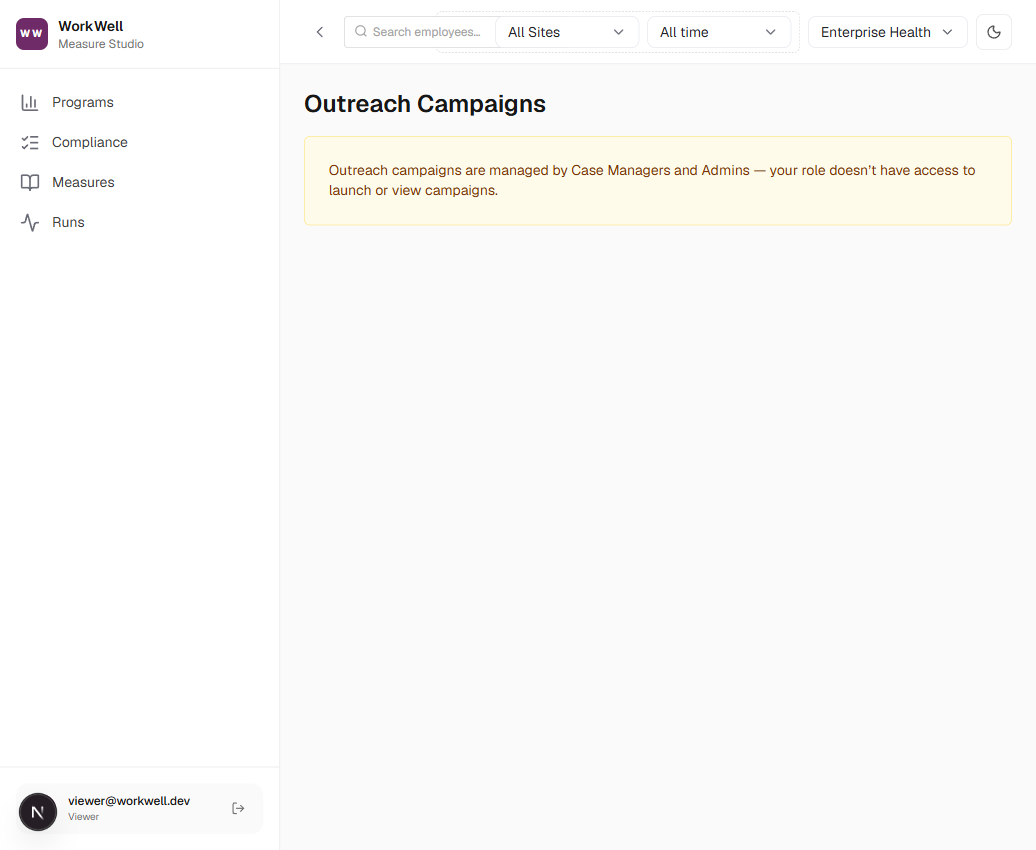
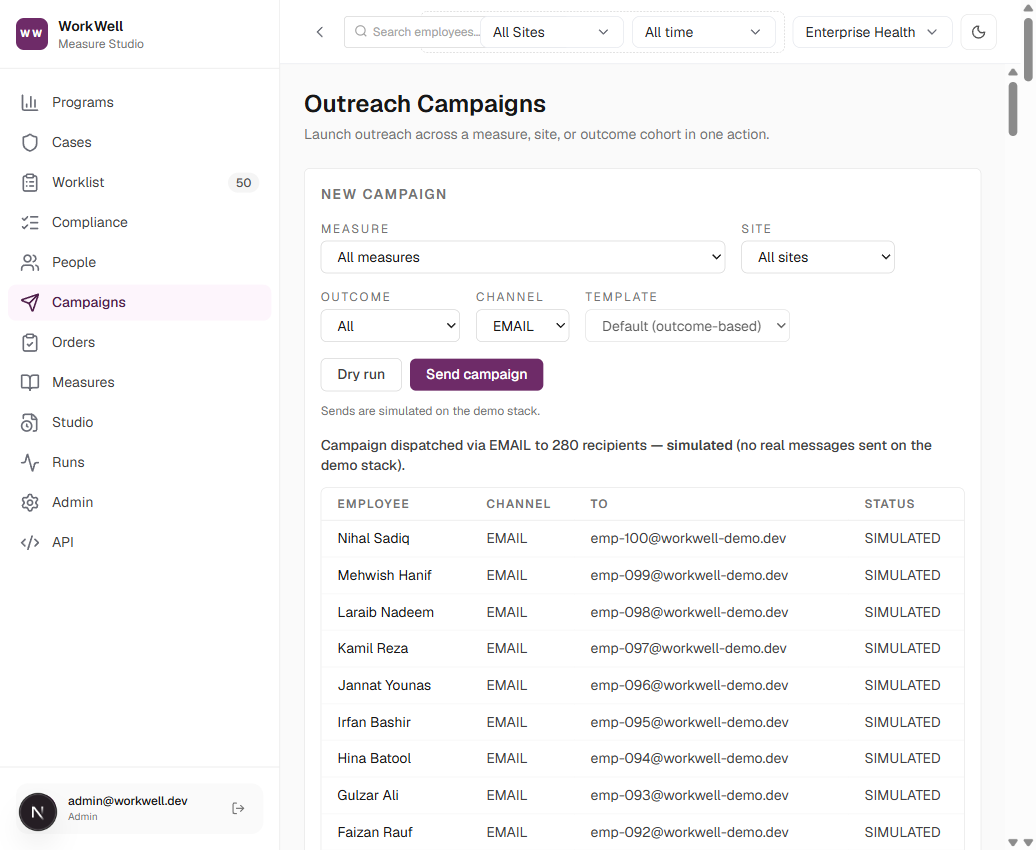
docs(readme): recapture 06/07/08 as an admin; brand switcher is not an admin setting (#485 Codex)
Codex P2 x2, both verified real. The campaigns, admin, and people
screenshots were captured as the viewer role and showed only
access-denied messages under captions describing the features.
Recaptured against the live app as admin@workwell.dev at the same
viewport: campaigns shows a dispatched simulated campaign with
per-recipient delivery status (the preview-then-confirm flow the
caption describes), admin shows the scheduler + integration health
tabs, and people shows the cross-system directory with live MOVED and
DUPLICATE badges.

The admin caption also claimed brand switching as an audited admin
setting; applyBrand is DOM + localStorage only, mounted in the
dashboard header (frontend/lib/useBrand.ts). Reworded: a per-browser
preference, not an admin setting.

diff --git a/README.md b/README.md
@@ -47,7 +47,7 @@ WorkWell Measure Studio is an occupational-health compliance platform for **Tota
 | ![Programs overview — per-measure compliance, trends, and reasons](docs/assets/01-programs.png) **Programs** — every measure's compliance at a glance: status buckets, trend since last run, top sites and roles, and the reasons cases are open. | ![Compliance roster — every employee × measure](docs/assets/02-compliance.png) **Compliance** — the roster grid: every employee × every measure, each cell clickable through to the evidence that produced it. |
 | ![Measure catalog with lifecycle states](docs/assets/03-measures.png) **Measures** — the catalog with lifecycle states (`Draft → Approved → Active`); each measure opens into the Studio for CQL authoring with live compilation. | ![Run history and outcome distributions](docs/assets/04-runs.png) **Runs** — every evaluation run with its scope, trigger, duration, and outcome distribution; large scopes run in the background. |
 | ![Case worklist — filter, bulk-act, export](docs/assets/05-cases.png) **Cases** — the daily worklist of flagged employees; filter, assign, bulk-act, export, with structured evidence and waiver context on every card. | ![Bulk outreach campaigns](docs/assets/06-campaigns.png) **Campaigns** — bulk outreach over a filtered case set, preview-then-confirm, with delivery status recorded per recipient. |
-| ![Integration and scheduler admin](docs/assets/07-admin.png) **Admin** — integration settings, the nightly scheduler, email provider, and brand switching; every setting is an audited write. | ![Cross-system identity review](docs/assets/08-people.png) **People** — cross-system identity: potential duplicates are surfaced for human review, never auto-merged. |
+| ![Integration and scheduler admin](docs/assets/07-admin.png) **Admin** — integration settings, the nightly scheduler, and the email provider; every setting is an audited write. (The runtime brand switcher lives in the dashboard header as a per-browser preference, not here.) | ![Cross-system identity review](docs/assets/08-people.png) **People** — cross-system identity: potential duplicates are surfaced for human review, never auto-merged. |
 | ![Enterprise → location → provider → patient drill-down](docs/assets/09-hierarchy.png) **Hierarchy** — the enterprise → location → provider → patient drill-down a multi-site quality manager works from. | |
 
 ---
